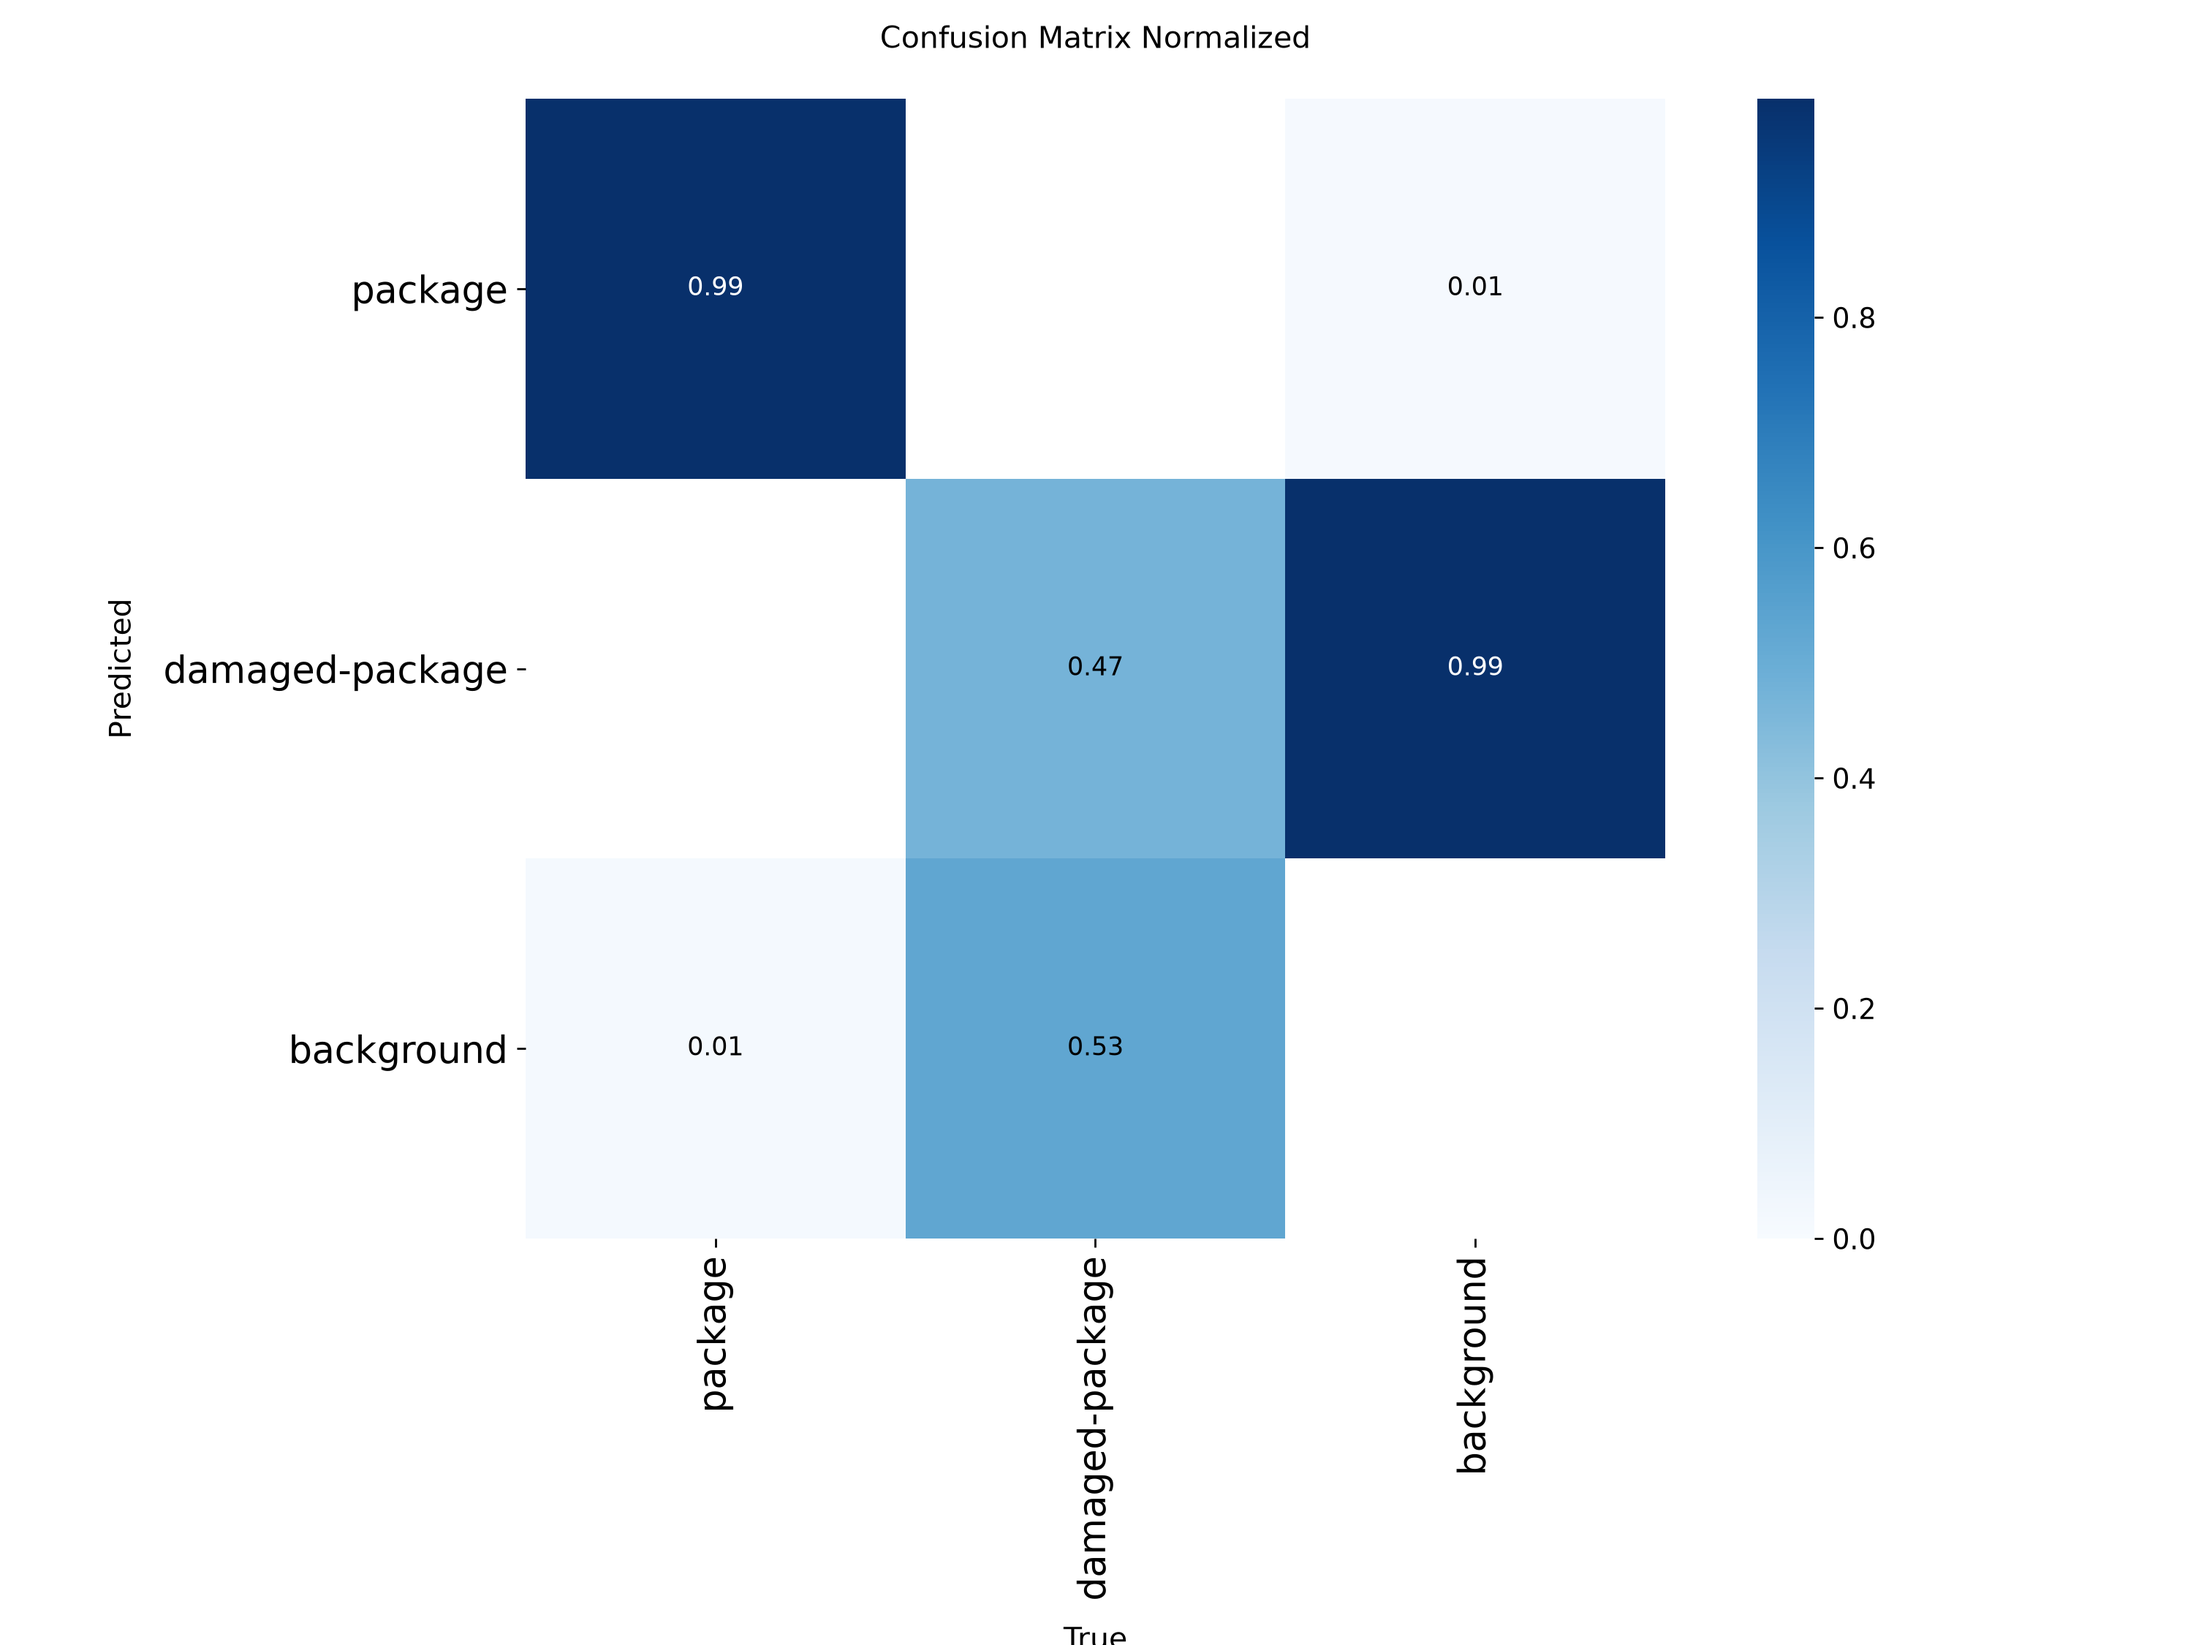
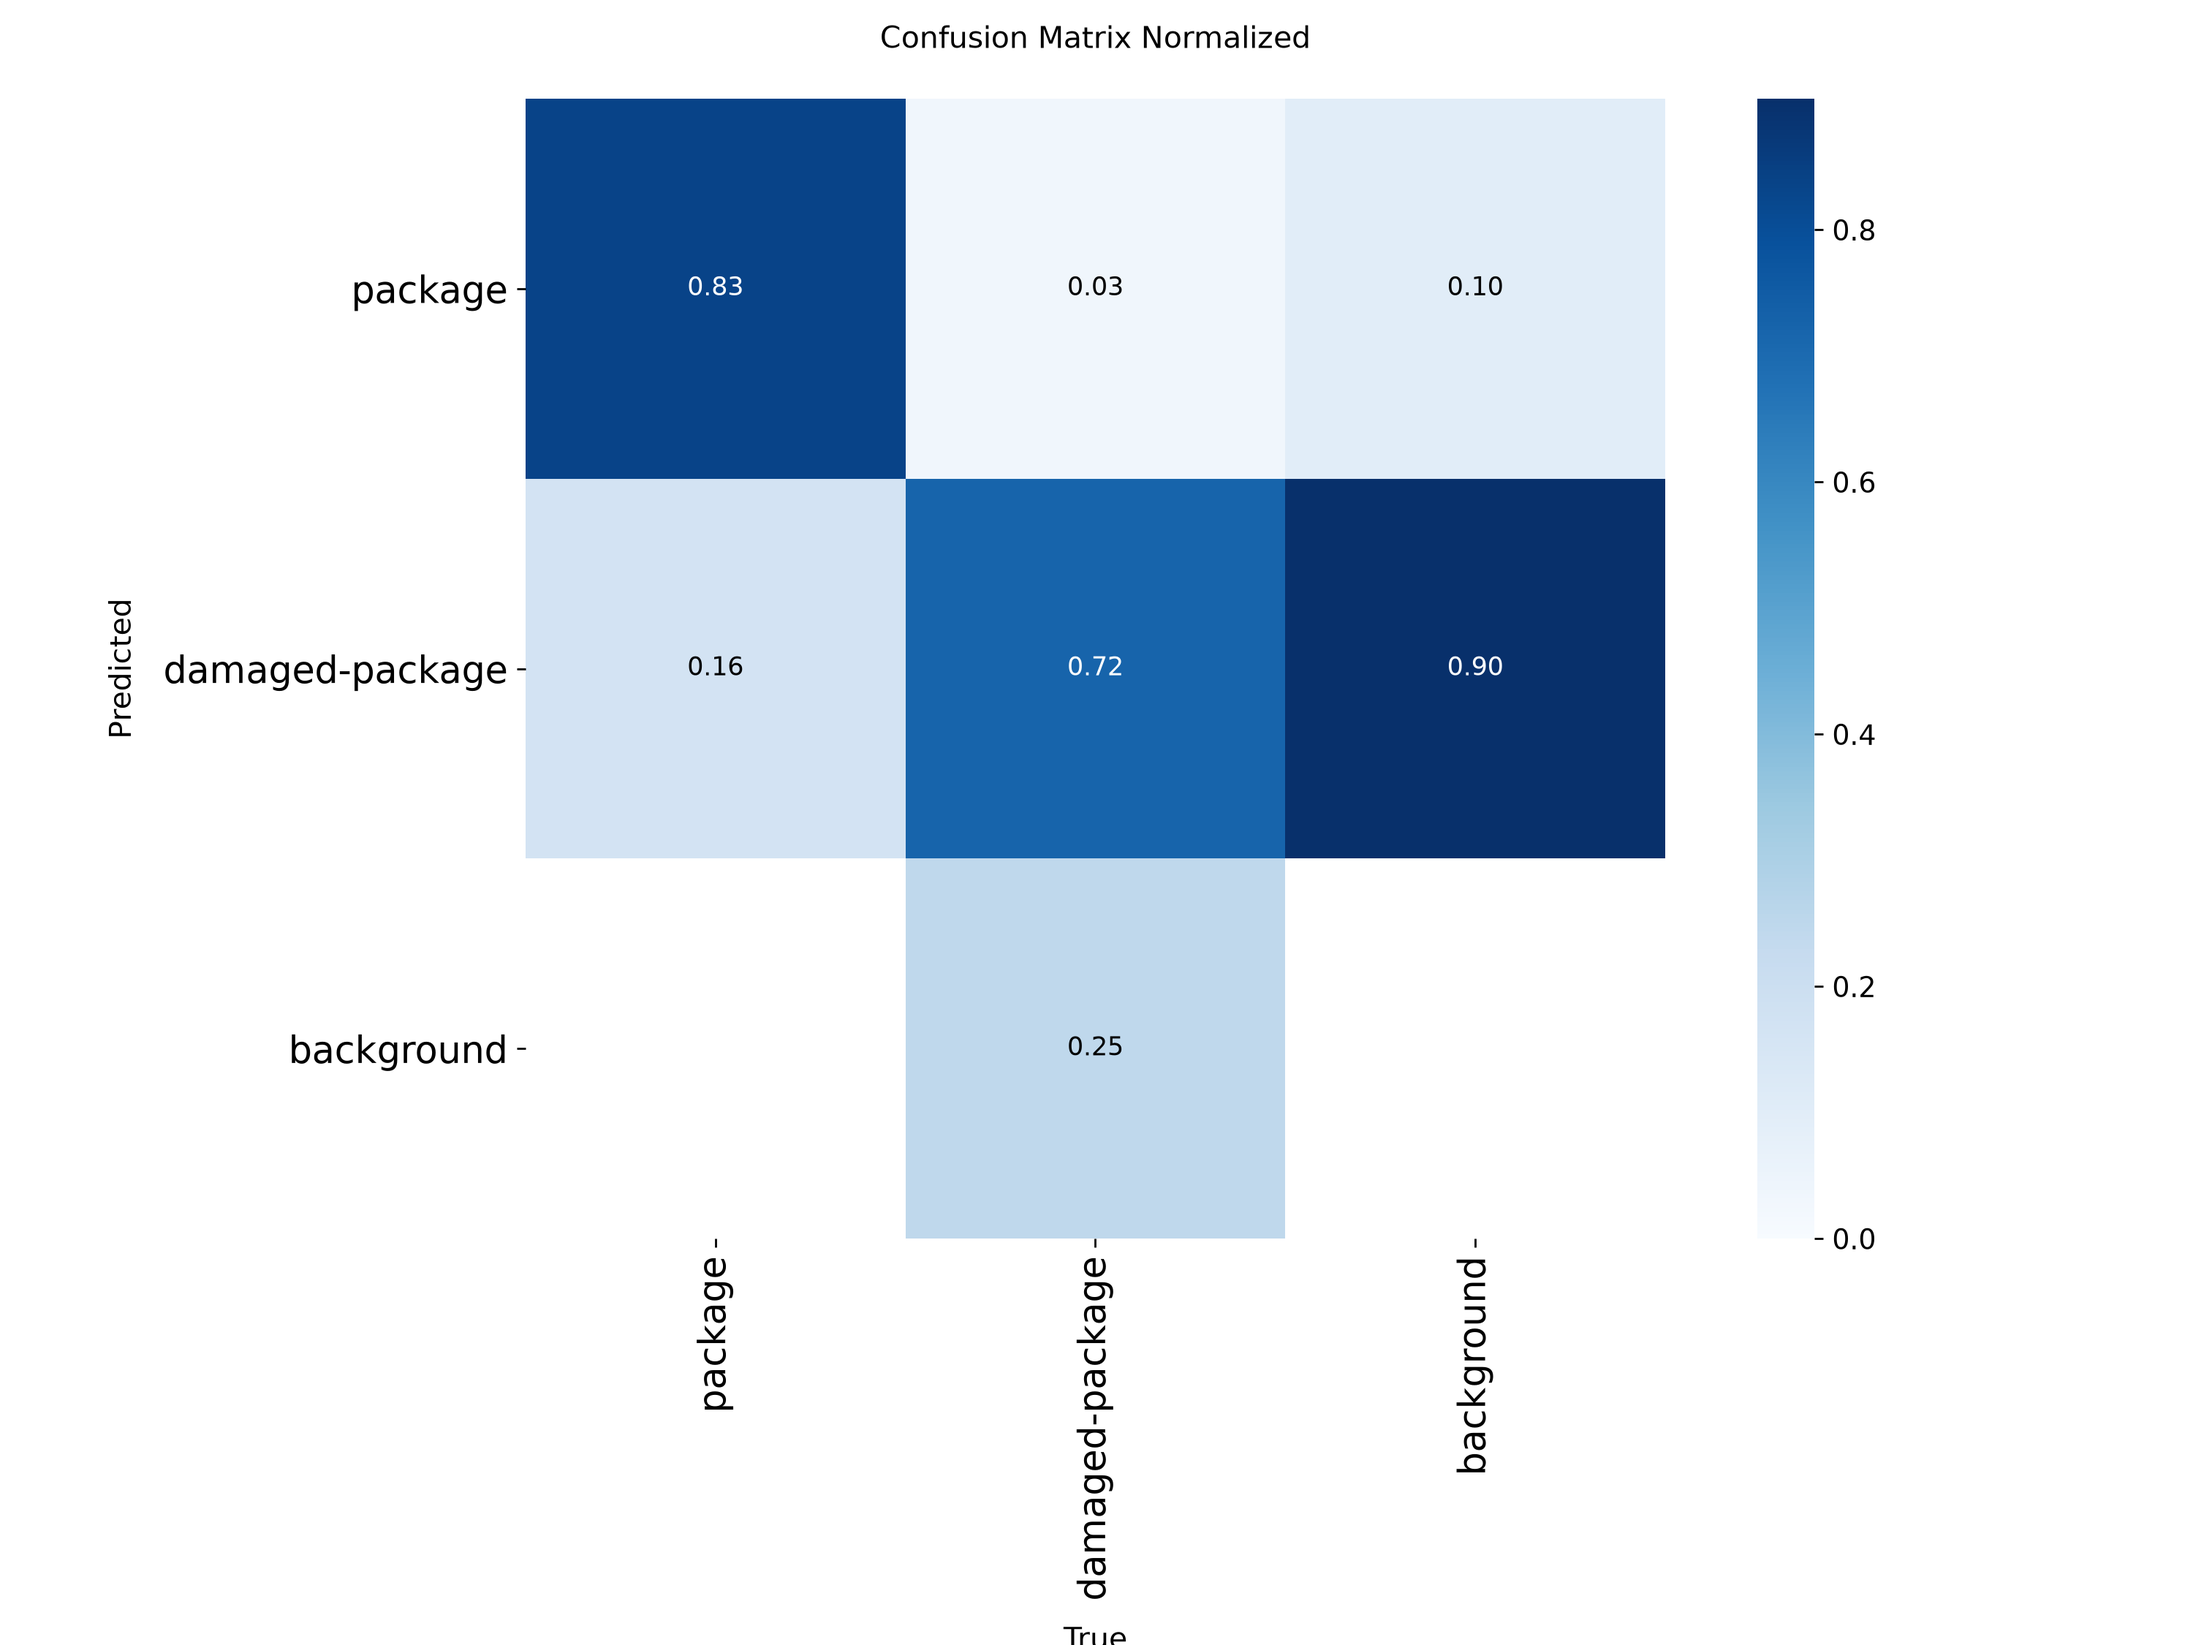
fix: correct stale model-provenance claims across the docs
A review of the published GitHub snapshot flagged several documentation
claims that had drifted from the shipped v3 model. Auditing them surfaced a
worse problem the review did not catch.

The artifacts were from the wrong model
- reports/confusion_matrix.png, pr_curve.png and training_curves.png were all
  byte-identical to the superseded v1 run, while the README presented them as
  evidence for the shipped model. A reviewer opening the confusion matrix was
  looking at the rejected 3-class baseline.
- Replaced with v3 equivalents, regenerated rather than picked by timestamp:
  re-ran evaluate.py on the test split with weights/best.pt and took the plots
  from that run. It reproduced the committed metrics to four decimals
  (0.8336/0.6253/0.7294 against 0.8335/0.6255/0.7295), which also confirms
  weights/best.pt is the v3 checkpoint. Hash-checked byte-identical to
  runs/train/dataset_v3/weights/best.pt.

Stale claims corrected
- Retrain instructions pointed at runs/train/rtdetr_logistics_v1/, the v1 run.
  The v3 weights live in runs/train/dataset_v3/.
- training_curves.png was captioned "all 40 epochs". v3 ran 58 of 60 requested,
  best checkpoint at epoch 43 by Ultralytics fitness.
- Layout referenced runs/archive/, which no longer exists. Replaced with the
  four experiments/ directories that actually hold the comparison evidence.
- Added explicit wording that weights/best.pt is the v3 checkpoint, so there
  is no ambiguity about which model is shipped.
[…]

Changed region(s): [[0.217, 0.0622, 0.589, 0.7778], [0.837, 0.5911, 0.868, 0.6222], [0.31, 0.6222, 0.341, 0.6533]]

diff --git a/README.md b/README.md
@@ -211,9 +211,18 @@ Model weights (`weights/best.pt`) are committed to this repository. No separate 
 is required: clone, install, and the API serves the trained model immediately. They load
 from `WEIGHTS_PATH`, which defaults to that path.
 
+> **`weights/best.pt` is the shipped v3 checkpoint**, selected by Ultralytics fitness from
+> the v3 run at epoch 43 of 58 completed. It is byte-identical to
+> `runs/train/dataset_v3/weights/best.pt`.
+
 To retrain from scratch, follow [REPRODUCIBILITY.md](REPRODUCIBILITY.md): build the
-dataset, run `python scripts/train.py`, then copy
-`runs/train/rtdetr_logistics_v1/weights/best.pt` to `weights/best.pt`.
+dataset, then run the v3 training command. The two flags matter, because the script's
+defaults reproduce the superseded v1 configuration, not v3:
+
+```bash
+python scripts/train.py --name dataset_v3 --epochs 60
+cp runs/train/dataset_v3/weights/best.pt weights/best.pt
+```
 
 > **Without an API key** the service still runs end to end. `/reason` returns a clearly
 > labelled deterministic summary instead of LLM prose, so routing and guardrail behaviour
@@ -428,9 +437,9 @@ Both sample routes are excluded from the OpenAPI schema. They exist for the cons
 
 | File | What it shows |
 | :--- | :--- |
-| `confusion_matrix.png` | normalised confusion matrix from the training run |
-| `pr_curve.png` | precision-recall curve per class |
-| `training_curves.png` | loss and mAP across all 40 epochs |
+| `confusion_matrix.png` | normalised confusion matrix, v3 on the held-out test split |
+| `pr_curve.png` | precision-recall curve per class, v3 on the held-out test split |
+| `training_curves.png` | loss and mAP across the v3 run, 58 epochs completed of 60 |
 | `metrics_test_split.json` | the exact numbers quoted in MEMO.md |
 | `shortcuts_v1.json` / `shortcuts_v3.json` | shortcut-dependence before and after the dataset fix |
 | `dedup_sweep.json` | the IoU threshold sweep behind the 0.7 choice |
@@ -506,7 +515,13 @@ weights/          best.pt, the shipped checkpoint
 sample_images/    three parcels covering CLEAR, flagged and refused
 reports/          committed metrics, curves and diagnostics
 dataset/          data.yaml, split_report.json  (images rebuilt by prepare_dataset.py)
-runs/             archive/ holds the superseded 3-class baseline for comparison
+runs/train/       dataset_v3/ is the shipped run; rtdetr_logistics_v1/ is the v1 baseline
+
+experiments/
+  v0_3class/      the superseded 3-class baseline
+  v1_baseline/    v1 metrics, kept for the before/after comparison
+  v2_rejected/    the normalisation experiment, rejected on its own merits
+  v3_final/       the shipped run: manifest, results.csv, metrics
 ```
 
 ---

diff --git a/MEMO.md b/MEMO.md
@@ -89,8 +89,9 @@ damaged 419 correct / 19 called package / 165 missed.
 0.934, but 0.000 on `packages2` and `biradar`, and down on `moratuwa` (0.455→0.273) and
 `parcel-box-damage` (0.570→0.395). **V3 traded one source dependence for another rather
 than becoming source-independent**; source-only predictability is still 0.79 against a
-0.56 baseline. Failure case 3 gives the mechanism. Expect near 0.625 on a hidden set
-resembling newbox and materially less on other capture styles. One real gain: newbox
+0.56 baseline. Failure case 3 gives the mechanism. Hidden-set performance may therefore
+vary materially with capture style; the 0.625 figure is a measurement on our own held-out
+split, not a forecast for an unseen distribution. One real gain: newbox
 `package` recall 0.000 → 0.559, so V3 finds intact parcels outside `haw-packages`.
 
 ## 5. Five failure cases (shipped model, each image inspected)

diff --git a/REPRODUCIBILITY.md b/REPRODUCIBILITY.md
@@ -169,8 +169,9 @@ small kernels that Ultralytics' Python-loop deformable attention launches.
 
 ### Command
 
-Run from the repository root with the venv active. All defaults are already the
-recommended values, so no flags are needed:
+Run from the repository root with the venv active. Both flags are required: the
+script's defaults (`--epochs 40 --name rtdetr_logistics_v1`) reproduce the superseded
+v1 configuration, not the shipped v3 model.
 
 ```bash
 python scripts/train.py --name dataset_v3 --epochs 60
